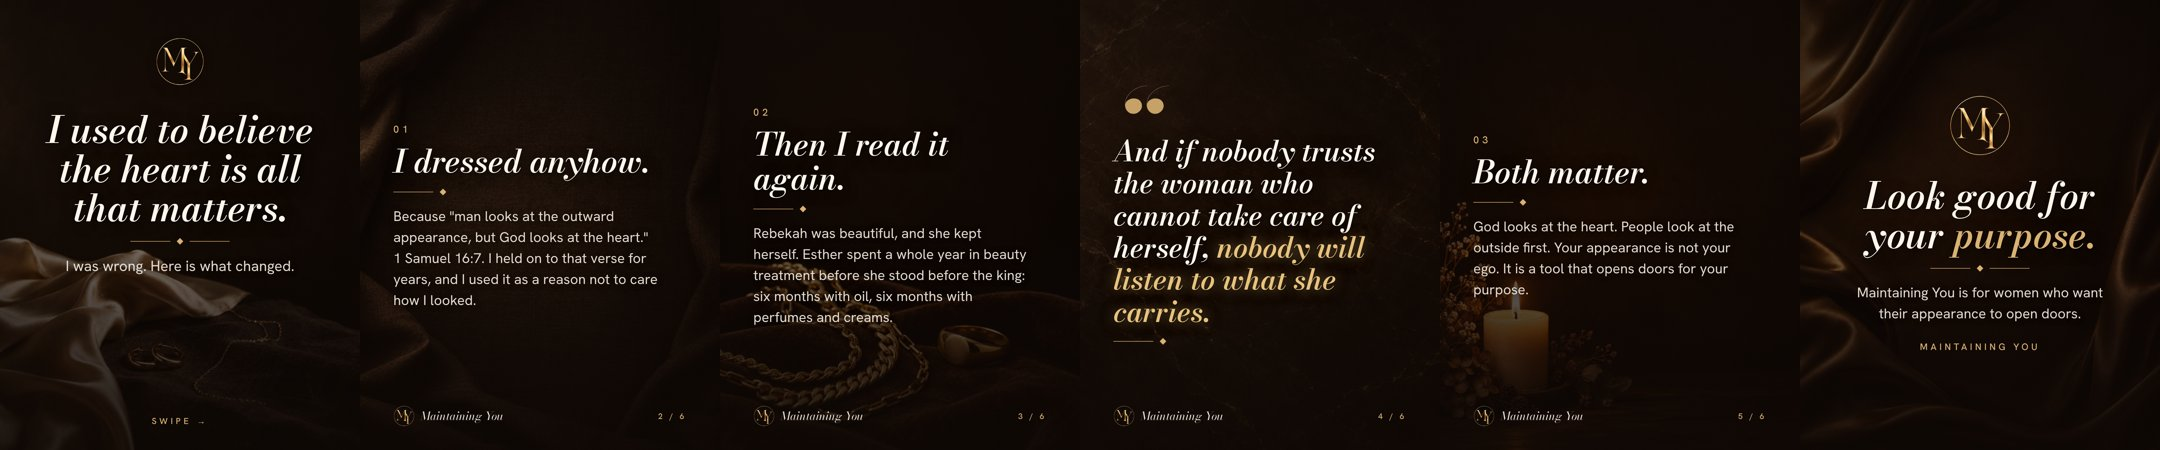
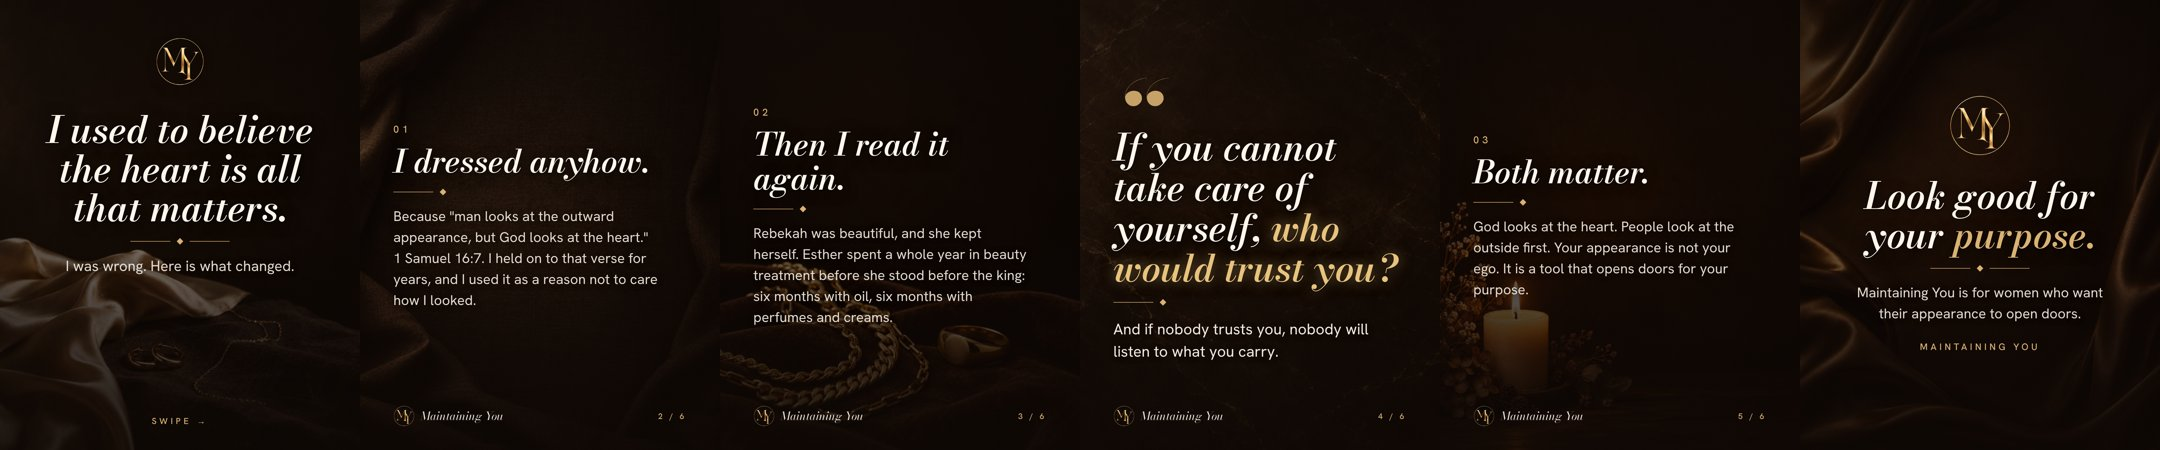
Social carousel 4: highlight slide reworded to 'If you cannot take care of yourself, who would trust you?'
Claude-Session: https://claude.ai/code/session_01WfqKX1kSVTngYk4RzwcmpU

Changed region(s): [[0.4963, 0.3111, 0.6514, 0.6533], [0.4963, 0.6844, 0.6514, 0.8089], [0.4963, 0.1867, 0.5583, 0.2489]]

diff --git a/social/captions.md b/social/captions.md
@@ -32,7 +32,7 @@ I used to believe appearance doesn't matter as long as my heart is right. I dres
 
 Then I read my Bible again. Rebekah was beautiful, and she kept herself. Esther spent a whole year in beauty treatment before she stood before the king: six months with oil, six months with perfumes and creams. Same Bible. Same God.
 
-God does look at the heart. But people look at the outside first. And if nobody trusts the woman who cannot take care of herself, nobody will listen to what she carries.
+God does look at the heart. But people look at the outside first. If you cannot take care of yourself, who would trust you? And if nobody trusts you, nobody will listen to what you carry.
 
 So I take care of myself. Not for my ego, but for my purpose. It is possible to love Jesus and still look attractive.
 
